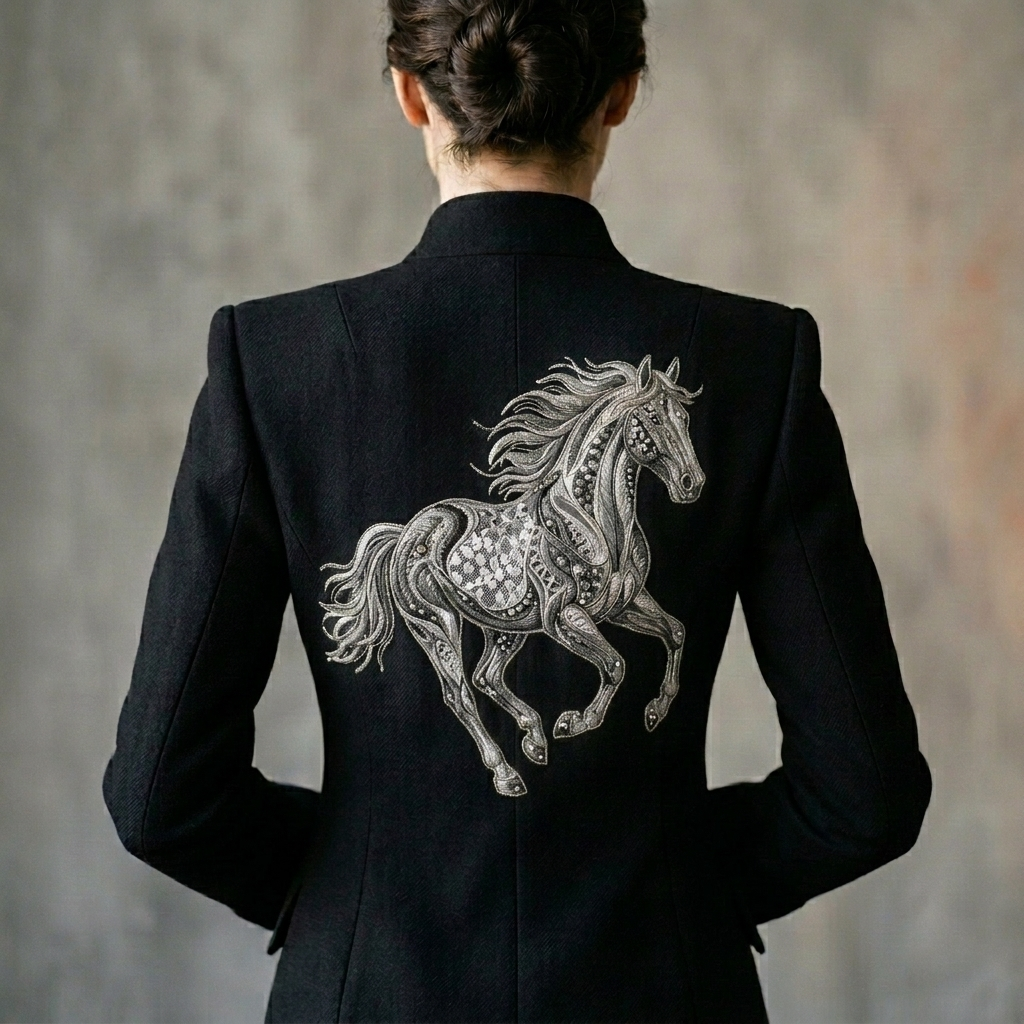
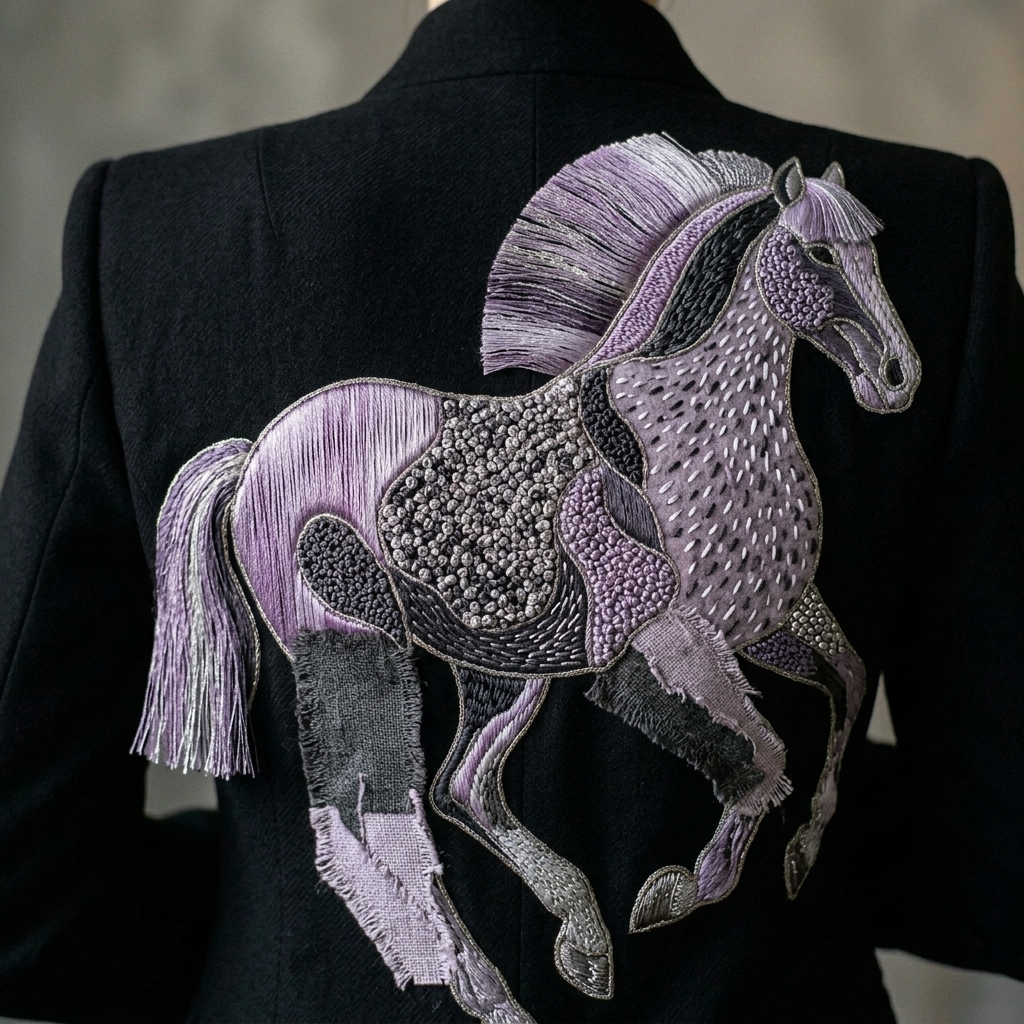
Add Deconstructed Mondrian white blazer lookbook entry (front/back views, story description) and update stallion image to blocked mixed-media style

diff --git a/src/app/lookbook/page.tsx b/src/app/lookbook/page.tsx
@@ -281,14 +281,14 @@ export default function LookbookPage() {
               <span className="italic font-normal">Steed</span>
             </h3>
             <p className="font-serif italic text-sm text-white/70 leading-relaxed mb-6">
-              From Gabi's expressionist oil canvas of a charging stallion to an elegant, abstract silver motif spanning the back of a structured wool jacket.
+              From Gabi's expressionist oil canvas of a charging stallion to an abstract, blocked mixed-media motif spanning the back of a structured wool jacket.
             </p>
             <div className="space-y-4 font-sans text-xs text-white/45 leading-relaxed mb-8">
               <p>
-                The challenge lay in capturing the movement and raw energy of the horse. We utilized a heavy Japanese wool crepe as the foundation, mapping the gestural brushstrokes of the horse's mane and tail using abstract, raised corded embroidery.
+                The challenge lay in capturing the movement and raw energy of the horse. We utilized a heavy Japanese wool crepe as the foundation, mapping the horse's silhouette into abstract, organic blocks using mixed-media hand embroidery in lilacs, silver, gray, black, and white threads.
               </p>
               <p>
-                The stylized body of the stallion integrates delicate white lace inserts, meticulously embroidered with a mix of silver bullion wires, charcoal silk, and pure white threads. Scattered, hand-applied rhinestones and crystals add a subtle catch-light shimmer, while peak lapels cut from duchesse silk satin complete the authoritative look.
+                Each section is defined by a distinct stitch texture: dense lilac satin stitches, clusters of French knots, and scattered white seed stitches. Integrated linen patches and flowing silver thread lines for the mane and tail create a highly tactile, elegant relief, completed by peak lapels cut from duchesse silk satin.
               </p>
             </div>
             <p className="font-mono text-[9px] uppercase tracking-widest text-[var(--dada-red)] pl-4 border-l border-white/10">
@@ -330,6 +330,65 @@ export default function LookbookPage() {
                 "We interweave Hikihaku gold leaf threads with champagne bouclé loops, bringing historical grandeur to modern structured jackets."
               </p>
             </div>
+          </div>
+        </section>
+
+        {/* SECTION 5b: Feature Article - Deconstructed Mondrian (Art to Blazer) */}
+        <section className="mb-32 grid grid-cols-1 lg:grid-cols-12 gap-12 items-center">
+          {/* Images side-by-side */}
+          <div className="lg:col-span-6 grid grid-cols-2 gap-4 group">
+            {/* Front View */}
+            <div className="flex flex-col gap-2">
+              <div className="aspect-[3/4] overflow-hidden bg-neutral-900 border border-white/5 rounded-lg relative">
+                <img
+                  src="/images/process/mondrian_blazer_front.png"
+                  alt="Deconstructed Mondrian blazer front view"
+                  className="w-full h-full object-cover filter grayscale hover:grayscale-0 transition-all duration-[1200ms] ease-in-out"
+                />
+              </div>
+              <span className="font-mono text-[8px] uppercase tracking-widest text-white/30 block">
+                Fig. 05 / Front View (Grayscale / Hover for Color)
+              </span>
+            </div>
+
+            {/* Back View */}
+            <div className="flex flex-col gap-2">
+              <div className="aspect-[3/4] overflow-hidden bg-neutral-900 border border-white/5 rounded-lg relative">
+                <img
+                  src="/images/process/mondrian_blazer_back.png"
+                  alt="Deconstructed Mondrian blazer back view"
+                  className="w-full h-full object-cover filter grayscale hover:grayscale-0 transition-all duration-[1200ms] ease-in-out"
+                />
+              </div>
+              <span className="font-mono text-[8px] uppercase tracking-widest text-white/30 block">
+                Fig. 06 / Back View (Grayscale / Hover for Color)
+              </span>
+            </div>
+          </div>
+
+          {/* Story Text */}
+          <div className="lg:col-span-6 flex flex-col justify-center pl-0 lg:pl-8">
+            <span className="font-mono text-[9px] uppercase tracking-[0.3em] text-[var(--dada-red)] mb-3 block">
+              Artwork Deconstruction
+            </span>
+            <h3 className="font-serif font-light text-3xl md:text-5xl uppercase tracking-wide mb-6 leading-tight">
+              Deconstructed <br />
+              <span className="italic font-normal">Mondrian</span>
+            </h3>
+            <p className="font-serif italic text-sm text-white/70 leading-relaxed mb-6">
+              Gabrielle Benot's architectural dialogue with Neo-Plasticism, translating Piet Mondrian's strict grid into a fluid, deconstructed white blazer.
+            </p>
+            <div className="space-y-4 font-sans text-xs text-white/45 leading-relaxed mb-8">
+              <p>
+                Inspired by Mondrian's compositional balance, Gabrielle reimagined the vertical and horizontal grid lines as dynamic, intersecting diagonals slicing across a clean white wool crepe blazer. 
+              </p>
+              <p>
+                We hand-embroidered thick black structural cords to anchor the composition. The resulting geometric panels are filled with textured French knots and micro-seed beads in the iconic primary color palette, vibrant yellow, deep cobalt blue, and rich scarlet red.
+              </p>
+            </div>
+            <p className="font-mono text-[9px] uppercase tracking-widest text-[var(--dada-red)] pl-4 border-l border-white/10">
+              <strong>Bespoke Detail:</strong> The embroidery flows continuously from the front lapel, wrapping around the side seams to converge in a major deconstructed focal point across the back.
+            </p>
           </div>
         </section>
 